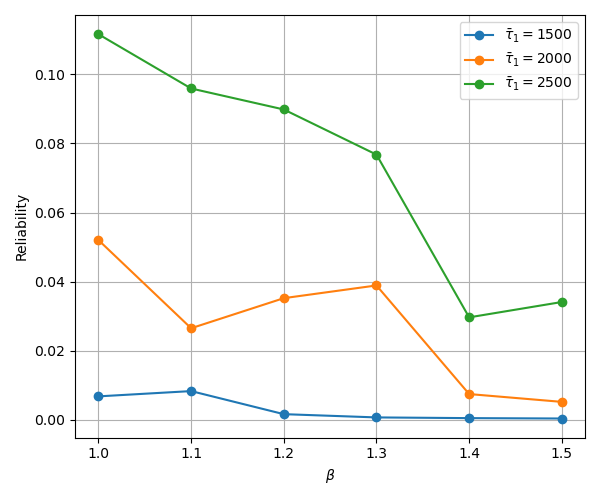
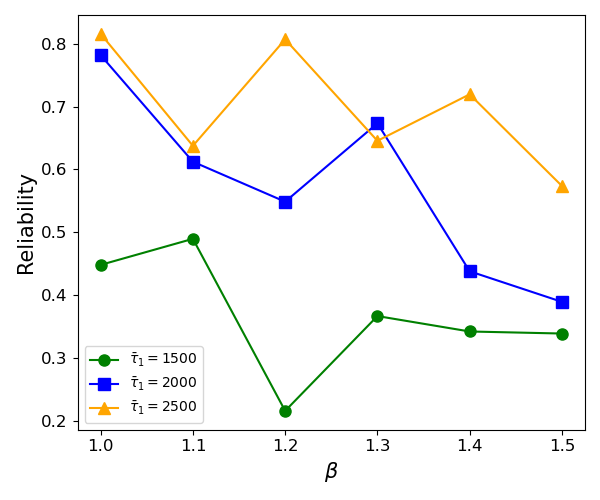
revise exp_GPUperformance.py

diff --git a/exp_GPUperformance.py b/exp_GPUperformance.py
@@ -2,12 +2,15 @@
     Goal: given the policy, analysis the reliability under different parameters of GPU performance
     Parameters: uShape; uScale; time threshold
 """
-
+import pandas as pd
+import seaborn as sns
 import matplotlib.pyplot as plt
-from Evaluate import adaptability_assessment
-from Genetic import genetic_algorithm
+import numpy as np
+
+from Evaluate import adaptability_assessment, adaptability_assessment_time, GPU_time
+from Genetic import genetic_algorithm, genetic_algorithm_time
 from matplotlib.pylab import mpl
-#mpl.use('Qt5Agg')  #解决plt函数卡住的问题：切换Matplotlib的后端渲染引擎
+mpl.use('Qt5Agg')  #解决plt函数卡住的问题：切换Matplotlib的后端渲染引擎
 
 
 population_size = 10
@@ -58,7 +61,7 @@ def compare(fileResPath, input_matrix1, input_matrix21, input_matrix22, i, j, k,
             color=colors[i],
             linestyle='-',
             linewidth=1.5,
-            label=f'$\\bar{{\\alpha}}={uShape[0]}$'
+            label=f'$\\bar{{\\tau}}_1={standard}$'
         )
 
 
@@ -93,9 +96,8 @@ def compare(fileResPath, input_matrix1, input_matrix21, input_matrix22, i, j, k,
             color=colors[i],
             linestyle='-',
             linewidth=1.5,
-            label=f'$\\bar{{\\alpha}}={uShape[0]}$'
+            label=f'$\\bar{{\\tau}}_1={standard}$'
         )
-
 
     # for standard in standard_range:
     #     data = [result[(standard, uShape[0], uScale_range[n][0])] for n in
@@ -109,6 +111,183 @@ def compare(fileResPath, input_matrix1, input_matrix21, input_matrix22, i, j, k,
     plt.tight_layout()
     plt.show()
     plt.savefig(fileResPath+"gpu-r-scale.png")
+
+
+# 仿真sampleNum次 --> 计算时间的分布
+def computeTimeSample(sto_matrix1, sto_matrix21, sto_matrix22, sampleNum, i, j, k, n, v, alpha, c_f, c_b, standard, uShape, uScale, theta, epsilon):
+    """
+    多次采样，得到每个sample的总计算时间
+    Return:
+        computeTimeSet:     (vector) all samples' computation times
+        reliaiblity:        (scalar) reliability of this policy
+    Parameters:
+        sampleNum:      采样sample次数
+        sto_matrix1...: 给定的policy
+    """
+    f_sample = np.zeros((j,k))
+    b_sample = np.zeros((j,k))
+    computeTimeSet = []
+    for num in range(sampleNum):
+        for jj in range(j):
+            for kk in range(k):
+                f_sample[jj,kk] = GPU_time(uShape[kk], uScale[kk], theta, epsilon)
+                b_sample[jj,kk] = GPU_time(uShape[kk], uScale[kk], theta, epsilon)
+
+        time, utilization = adaptability_assessment_time(sto_matrix1, sto_matrix21, sto_matrix22, i, j, k, n, v, alpha, c_f, c_b, f_sample, b_sample)
+        computeTimeSet.append(time)
+    reliaiblity = sum([a < standard for a in computeTimeSet]) / sampleNum
+    return computeTimeSet, reliaiblity
+
+
+# plot figure
+def plot1(fileResPath, sampleNum, input_matrix1, input_matrix21, input_matrix22, i, j, k, n, v, alpha, c_f, c_b, standard, uShape_range, uScale_range, theta, epsilon):
+    """
+    绘制图：在不同alpha下，给定策略的总计算时间sample的箱线图 & 可靠性折线图。
+    Figure 1: x-axis: uShape; y-axis: out-of-sample of computeTime / Reliability
+    """
+    result_r = []
+    result_sample = []
+    uScale = uScale_range[0]
+    for uShape in uShape_range:
+        print(f"Experiment for {uShape[0], uScale[0]}")
+        computeTimeSet, reliaiblity = computeTimeSample(input_matrix1, input_matrix21, input_matrix22, sampleNum, i, j, k, n, v,
+                                           alpha, c_f, c_b, standard, uShape, uScale, theta, epsilon)
+        result_r.append(reliaiblity)
+        result_sample += [[uShape[0], uScale[0], t] for t in computeTimeSet]
+    df = pd.DataFrame(result_sample, columns=['uShape', 'uScale', 'computeTime'])  # 格式转为pd.DataFrame格式
+
+    # ------------------- plot box of out-of-sample -------------------
+    # 在同一个图中,采用双纵轴显示
+    # 创建左轴
+    fig, ax1 = plt.subplots(figsize=(8, 5))
+    sns.set(style="ticks")  # style："white", "whitegrid", "ticks"
+    sns.boxplot(data=df, x='uShape', y='computeTime', ax=ax1, width=.5, showfliers=False, showcaps=True, showmeans=True,
+                meanprops={'marker': 'x', 'markeredgecolor': 'black', 'markerfacecolor': 'black'}, palette="Set2")
+    # 设置左轴标签
+    ax1.set_ylabel("frequency of computation times")
+    ax1.set_xlabel(r"$\alpha$")
+    # 获取分类的 x 轴位置，用于右轴x坐标对齐
+    xticks = ax1.get_xticks()
+    xticklabels = [float(label.get_text()) for label in ax1.get_xticklabels()]
+    # 创建右轴
+    ax2 = ax1.twinx()
+    ax2.plot(xticks, result_r, color='blue', marker='^',  markersize=8, linestyle='--', linewidth=1.5)
+    ax2.set_ylabel('reliability', color='blue')
+    ax2.tick_params(axis='y', labelcolor='blue')
+    # 保持X轴标签一致
+    ax1.set_xticks(xticks)
+    ax1.set_xticklabels(xticklabels)
+    # 调整y轴显示范围
+    # ax1.set_ylim(0, 2000)
+    # ax2.set_ylim(0.5, 1)
+    plt.tight_layout()
+    plt.show() #plt.show(block=True)
+    plt.savefig(fileResPath + '1-gpu-shape-r.png', dpi=800)
+
+
+def plot2(fileResPath, sampleNum, input_matrix1, input_matrix21, input_matrix22, i, j, k, n, v, alpha, c_f, c_b, standard, uShape_range, uScale_range, theta, epsilon):
+    """
+    绘制图：在不同beta下，给定策略的总计算时间sample的箱线图 & 可靠性折线图。
+    Figure 2: x-axis: uSacle; y-axis: out-of-sample of computeTime / Reliability
+    """
+    result_r = []
+    result_sample = []
+    uShape = uShape_range[0]
+    for uScale in uScale_range:
+        print(f"Experiment for {uShape[0], uScale[0]}")
+        computeTimeSet, reliaiblity = computeTimeSample(input_matrix1, input_matrix21, input_matrix22, sampleNum, i, j, k, n, v,
+                                           alpha, c_f, c_b, standard, uShape, uScale, theta, epsilon)
+        result_r.append(reliaiblity)
+        result_sample += [[uShape[0], uScale[0], t] for t in computeTimeSet]
+    df = pd.DataFrame(result_sample, columns=['uShape', 'uScale', 'computeTime'])  # 格式转为pd.DataFrame格式
+
+    # ------------------- plot box of out-of-sample -------------------
+    # 在同一个图中,采用双纵轴显示
+    # 创建左轴
+    fig, ax1 = plt.subplots(figsize=(8, 5))
+    sns.set(style="ticks")
+    sns.boxplot(data=df, x='uScale', y='computeTime', ax=ax1, width=.5, showfliers=False, showcaps=True, showmeans=True,
+                meanprops={'marker': 'x', 'markeredgecolor': 'black', 'markerfacecolor': 'black'}, palette="Set2")
+    # 设置左轴标签
+    ax1.set_ylabel("frequency of computation times")
+    ax1.set_xlabel(r"$\beta$")
+    # 获取分类的 x 轴位置，用于右轴x坐标对齐
+    xticks = ax1.get_xticks()
+    xticklabels = [float(label.get_text()) for label in ax1.get_xticklabels()]
+    # 创建右轴
+    ax2 = ax1.twinx()
+    ax2.plot(xticks, result_r, color='blue', marker='^',  markersize=8, linestyle='--', linewidth=1.5)
+    ax2.set_ylabel('reliability', color='blue')
+    ax2.tick_params(axis='y', labelcolor='blue')
+    # 保持X轴标签一致
+    ax1.set_xticks(xticks)
+    ax1.set_xticklabels(xticklabels)
+    # 调整y轴显示范围
+    # ax1.set_ylim(0, 2000)
+    # ax2.set_ylim(0.5, 1)
+    plt.tight_layout()
+    plt.show() #plt.show(block=True)
+    plt.savefig(fileResPath + '1-gpu-scale-r.png', dpi=800)
+
+
+# plot figure (其他展现形式)
+def plot0():
+    result_r = []
+    result_sample = []
+    uScale = uScale_range[0]
+    for uShape in uShape_range:
+        print(f"Experiment for {uShape[0], uScale[0]}")
+        computeTimeSet, reliaiblity = computeTimeSample(input_matrix1, input_matrix21, input_matrix22, sampleNum, i, j,
+                                                        k, n, v,
+                                                        alpha, c_f, c_b, standard, uShape, uScale, theta, epsilon)
+
+        result_r.append(reliaiblity)
+        result_sample += [[uShape[0], uScale[0], t] for t in computeTimeSet]  # ['uShape', 'uScale', 'computeTime']
+    df = pd.DataFrame(result_sample, columns=['uShape', 'uScale', 'computeTime'])  # 格式转为pd.DataFrame格式
+
+    # ------------------- plot box of out-of-sample -------------------
+    # 上图是箱线图,下图是可靠性折线图
+    # 创建上下两个子图
+    fig, (ax1, ax2) = plt.subplots(nrows=2, ncols=1, figsize=(8, 8), sharex=True, gridspec_kw={'height_ratios': [2, 1]})
+    # 上图：箱线图
+    sns.boxplot(data=df, x='uShape', y='computeTime', ax=ax1, width=.5, showfliers=False, showcaps=True, showmeans=True,
+                meanprops={'marker': 'x', 'markeredgecolor': 'black', 'markerfacecolor': 'black'}, palette="Set2")
+    ax1.set_ylabel("frequency of computation times")
+    ax1.set_xlabel(r"$\alpha$")
+    # ax1.set_ylim(0, 2*standard)
+    # 添加参考线
+    # ax1.axhline(y=standard, color='red', linestyle='--', linewidth=1.5)
+    # ax1.text(ax1.get_xlim()[1]-0.3, standard+50,  f'$\\bar{{\\tau}}_1$ = {standard}', color='red', ha='right', fontsize=12)
+    # 获取分类的x轴位置，用于两个图的x坐标对齐
+    xticks = ax1.get_xticks()
+    xticklabels = [float(label.get_text()) for label in ax1.get_xticklabels()]
+    # 下图：可靠性折线图
+    ax2.plot(xticks, result_r, color='blue', marker='^',  markersize=8, linestyle='--', linewidth=1.5)
+    ax2.set_ylabel('reliability')
+    # ax2.set_ylim(0.5, 1)
+    ax2.tick_params(axis='y')
+    ax2.set_xlabel(r"$\alpha$")
+    # 保持 X 轴标签一致
+    ax2.set_xticks(xticks)
+    ax2.set_xticklabels(xticklabels)
+    # 美化布局
+    plt.tight_layout()
+    plt.show()
+    plt.savefig(fileResPath + '1-gpu-shape-r.png', dpi=800)
+
+    # ------------------- plot hist of out-of-sample -------------------
+    # 每个shape对应的out-of-sample图
+    plt.figure(figsize=(6, 5))
+    sns.histplot(data=df, x='computeTime', hue='uShape', kde=False, bins=1000, alpha=0.6, legend='full')
+    plt.axvline(x=standard, color='red', linestyle='--', linewidth=1.5)
+    plt.text(standard + 20, plt.ylim()[1] * 0.9, f'$\\bar{{\\tau}}_1$ = {standard}', color='red', fontsize=12)
+    plt.title('Frequency Distribution of Compute Time by uShape')
+    plt.xlabel('Compute Time')
+    plt.ylabel('Frequency')
+    plt.grid(True, linestyle='--', alpha=0.5)
+    plt.xlim(0, 2*standard)  # 控制x轴范围
+    plt.show()
+    plt.savefig(fileResPath+'1-gpu-shape-r-2.png', dpi=800)
 
 if __name__ == "__main__":
     fileDataPath = 'data/'
@@ -127,8 +306,9 @@ if __name__ == "__main__":
     theta = 5
     epsilon = 0
     standard_range = [1500, 2000, 2500]  # time threshold
-    uShape_range = [[a/10 for _ in range(k)] for a in range(11, 13)]
-    uScale_range = [[a/10 for _ in range(k)] for a in range(10, 16)]
+    uShape_range = [[a/10 for _ in range(k)] for a in range(11, 17, 2)]
+    uScale_range = [[a/10 for _ in range(k)] for a in range(10, 14)]
+    sampleNum = 5000 # number of simulating sample
 
     # Fixed the policy
     standard = standard_range[0]
@@ -149,8 +329,10 @@ if __name__ == "__main__":
                                                                                                       theta,
                                                                                                       epsilon)
 
-    # Given the policy --> analysis R under different parameters
-    compare(fileResPath, input_matrix1, input_matrix21, input_matrix22, i, j, k, n, v, alpha, c_f, c_b,
-            standard_range, iterations, uShape_range, uScale_range, theta, epsilon)
+    # Given the policy --> analysis R under different parameters (plot: out-of-sample & R)
+    plot1(fileResPath, sampleNum, input_matrix1, input_matrix21, input_matrix22, i, j, k, n, v, alpha, c_f, c_b,
+              standard, uShape_range, uScale_range, theta, epsilon)
+    plot2(fileResPath, sampleNum, input_matrix1, input_matrix21, input_matrix22, i, j, k, n, v, alpha, c_f, c_b,
+          standard, uShape_range, uScale_range, theta, epsilon)
 
 
